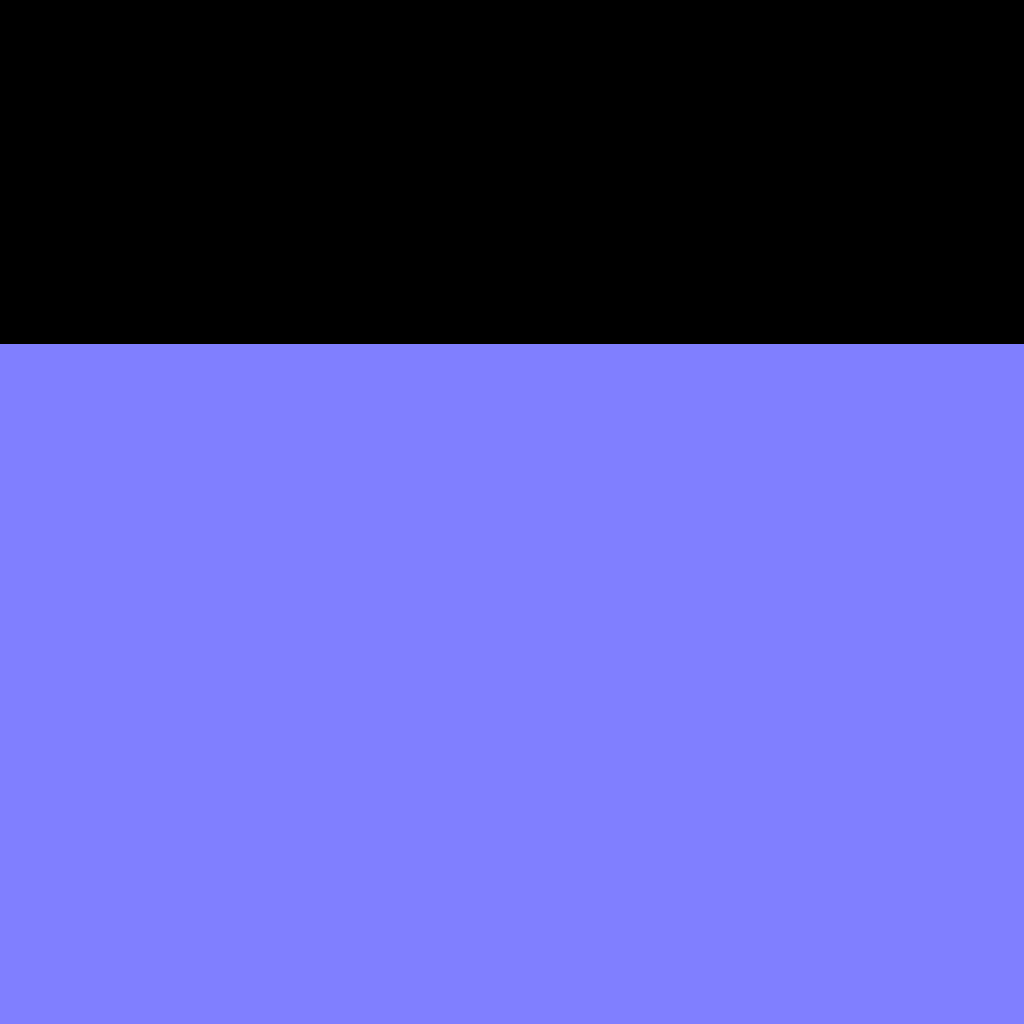
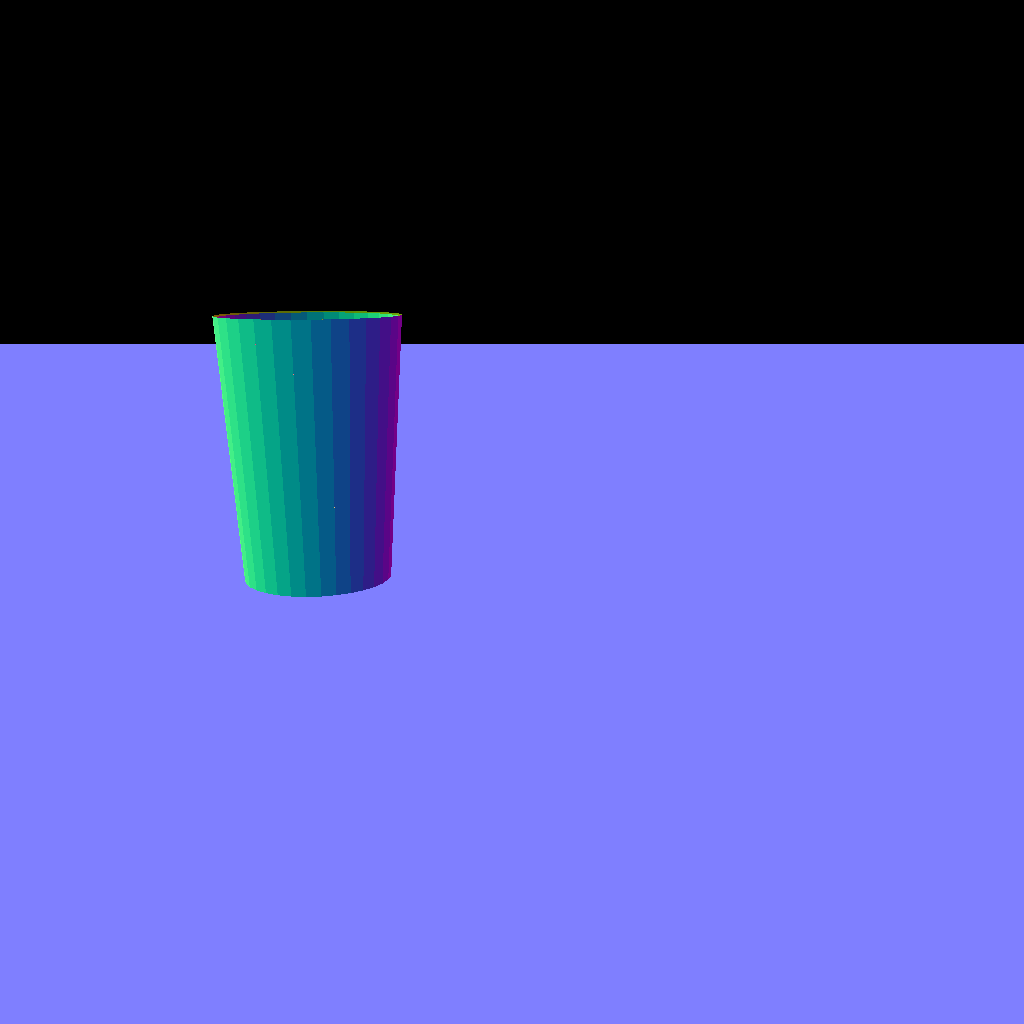
Some part of it works

Changed region(s): [[0.1875, 0.2812, 0.4062, 0.5938]]

diff --git a/bvh.cpp b/bvh.cpp
@@ -31,11 +31,16 @@ void BVH_Node::createBVH(Scene* scene){
 }
 
 void BVH_Node::reallyCreateBVH(){
-	if(this->surfaces_inside.size() == 0 || this->surfaces_inside.size() == 1){
+	if(this->surfaces_inside.size() == 0){ // Was the problem here?
 		this->is_leaf_node = 1;
 		return;
 	}
-
+	if(this->surfaces_inside.size() == 1){ // Was the problem here? Yes there was!
+		this->node_bounding_box.min = surfaces_inside[0]->bounding_box.min;
+		this->node_bounding_box.max = surfaces_inside[0]->bounding_box.max;
+		this->is_leaf_node = 1;
+		return;
+	}
 	if(this->surfaces_inside.size() >= 2){
 		this->node_bounding_box.min = surfaces_inside[0]->bounding_box.min;
 		this->node_bounding_box.max = surfaces_inside[0]->bounding_box.max;
@@ -140,29 +145,92 @@ void BVH_Node::reallyCreateBVH(){
 	std::cout << "Exiting reallyCreateBVH" << std::endl;
 }
 
-Interaction BVH_Node::rayIntersect(Ray ray){
-	BVH_Node* node = this;
-	Interaction bvhi_final;
-	Interaction bvhi;
-	bvhi_final.didIntersect = 0;
-	if (this->node_bounding_box.rayIntersect(ray).didIntersect == 0){
-		bvhi_final.didIntersect = 0;
-		return bvhi_final;
-	}
-    if (this->is_leaf_node == 1)
-    {
-        return this->surfaces_inside[0]->rayIntersect(ray);
+void BVH_Node::printBVH_Information(int level){
+	static int index_assignment = 1;
+    if (this->surfaces_inside.size() == 0){
+        std::cout << "This is a leaf node 0" << std::endl;
+        return;
     }
-    else
-    {
-        bvhi = this->left_node->rayIntersect(ray);
-		if(bvhi.didIntersect == 1) bvhi_final = bvhi;
-        bvhi = this->right_node->rayIntersect(ray);
-		if(bvhi.didIntersect == 1) bvhi_final = bvhi;
+	if (this->surfaces_inside.size() == 1){
+		this->index = index_assignment++;
+        std::cout << "This is a leaf node 1, has index: " << this->index << "." << std::endl;
+		std::cout << "Bounding box limits:" << std::endl;
+		std::cout << this->node_bounding_box.min.x << " " << this->node_bounding_box.min.y << " " << this->node_bounding_box.min.z << std::endl;
+	std::cout << this->node_bounding_box.max.x << " " << this->node_bounding_box.max.y << " " << this->node_bounding_box.max.z << std::endl;
+		std::cout << "Bounding box limits end:" << std::endl;
+        return;
+    }
+    else{
+        std::cout << "Printing information of left to level: " << level << ", has surfaces: " << this->left_node->surfaces_inside.size() << std::endl;
+		if(this->left_node) this->left_node->printBVH_Information(level + 1);
+
+        std::cout << "Printing information of right to level: " << level << ", has surfaces: " << this->right_node->surfaces_inside.size() << std::endl;
+		if(this->right_node) this->right_node->printBVH_Information(level + 1);
+    }
+    return;
+}
+
+Interaction BVH_Node::rayIntersect(Ray ray){
+    BVH_Node* node = this;
+    Interaction bvhi_final;
+    Interaction bvhi;
+    bvhi_final.didIntersect = 0;
+
+    if (this->node_bounding_box.rayIntersect(ray).didIntersect == 0) {
+        // No intersection with the bounding box, return the default value
+        std::cout << "No bounding box intersection." << std::endl;
+
+		std::cout << "Bounding box limits:" << std::endl;
+		std::cout << this->node_bounding_box.min.x << " " << this->node_bounding_box.min.y << " " << this->node_bounding_box.min.z << std::endl;
+	std::cout << this->node_bounding_box.max.x << " " << this->node_bounding_box.max.y << " " << this->node_bounding_box.max.z << std::endl;
+		std::cout << "Bounding box limits end:" << std::endl;
+
+		std::cout << "Ray Information" << std::endl;
+		std::cout << "Direction " << ray.d.x << ", " << ray.d.y << ", " << ray.d.z << std::endl;
+		std::cout << "Direction " << ray.o.x << ", " << ray.o.y << ", " << ray.o.z << std::endl;
+
+        return bvhi_final;
     }
 
-	return bvhi_final;
+    if (this->is_leaf_node == 1) {
+        // If it's a leaf node, directly compute the intersection with the surface
+        Interaction si = this->surfaces_inside[0]->rayIntersect(ray);
+        std::cout << "Leaf node intersection. Surface index: " << this->index << ", t: " << si.t << std::endl;
+        return si;
+    }
+    else {
+        // Recursive intersection with both left and right nodes
+        Interaction left_intersection = this->left_node->rayIntersect(ray);
+        Interaction right_intersection = this->right_node->rayIntersect(ray);
+
+        // Check which intersection is closer
+        if (left_intersection.didIntersect && right_intersection.didIntersect) {
+            float left_distance = left_intersection.t;
+            float right_distance = right_intersection.t;
+
+            // Choose the closer intersection
+            if (left_distance < right_distance) {
+                bvhi_final = left_intersection;
+                std::cout << "Left ---" << std::endl;
+            } else {
+                bvhi_final = right_intersection;
+                std::cout << "Right ---" << std::endl;
+            }
+        } else if (left_intersection.didIntersect) {
+            bvhi_final = left_intersection;
+            std::cout << "Left ---" << std::endl;
+        } else if (right_intersection.didIntersect) {
+            bvhi_final = right_intersection;
+            std::cout << "Right ---" << std::endl;
+        }
+    }
+
+    std::cout << "Final intersection result: " << bvhi_final.didIntersect << ", t: " << bvhi_final.t << std::endl;
+
+    return bvhi_final;
 }
+
+
 
 // Interaction BVH_Node::rayIntersect(Ray ray){
 // 	// Phele dekhna hai ki iske bounding box par intersect hui ki nahi.

diff --git a/render.cpp b/render.cpp
@@ -10,11 +10,21 @@ Integrator::Integrator(Scene &scene)
 long long Integrator::render()
 {
     auto startTime = std::chrono::high_resolution_clock::now();
+    int x = 960;
+    int y = 540;
     for (int x = 0; x < this->scene.imageResolution.x; x++) {
         for (int y = 0; y < this->scene.imageResolution.y; y++) {
             Ray cameraRay = this->scene.camera.generateRay(x, y);
             Interaction si = this->scene.rayIntersect(cameraRay);
-
+            if(x == 960 && y == 540){
+                std::cout << "This is the center point" << std::endl;
+                if(si.didIntersect){
+                    std::cout << "RAY INTERSECTED" << std::endl;
+                }
+                else if(!si.didIntersect){
+                    std::cout << "RAY DID NOT INTERSECT" << std::endl;
+                }
+            }
             if (si.didIntersect)
                 this->outputImage.writePixelColor(0.5f * (si.n + Vector3f(1.f, 1.f, 1.f)), x, y);
             else
@@ -29,8 +39,11 @@ long long Integrator::render()
 // I am not in favour of global variables
 int option = 0;
 
+int print_once = 0;
+
 int main(int argc, char **argv)
 {
+    print_once = 0;
     if (argc != 4) {
         std::cerr << "Usage: ./render <scene_config> <out_path> <option>";
         return 1;
@@ -60,6 +73,11 @@ int main(int argc, char **argv)
     if(option == 2){
         bvh_root->createBVH(&scene);
         scene.bvh_root = bvh_root;
+
+        std::cout << "Bounding box limits:" << std::endl;
+		std::cout << bvh_root->node_bounding_box.min.x << " " << bvh_root->node_bounding_box.min.y << " " << bvh_root->node_bounding_box.min.z << std::endl;
+	std::cout << bvh_root->node_bounding_box.max.x << " " << bvh_root->node_bounding_box.max.y << " " << bvh_root->node_bounding_box.max.z << std::endl;
+		std::cout << "Bounding box limits end:" << std::endl;
     }
     // std::cout << scene.surfaces.size() << std::endl;
 

diff --git a/scene.cpp b/scene.cpp
@@ -98,6 +98,7 @@ void Scene::parse(std::string sceneDirectory, nlohmann::json sceneConfig)
     }
 }
 
+
 Interaction Scene::rayIntersect(Ray& ray)
 {
     Interaction siFinal;
@@ -116,6 +117,7 @@ Interaction Scene::rayIntersect(Ray& ray)
 
     if(option == 2){
         // search in bvh recursively
+        if(print_once++ == 0) this->bvh_root->printBVH_Information(0);
         Interaction si = this->bvh_root->rayIntersect(ray);
         if (si.t <= ray.t) {    
             siFinal = si;

diff --git a/headers/bvh.h b/headers/bvh.h
@@ -17,4 +17,8 @@ struct BVH_Node {
 	void reallyCreateBVH();
 
 	Interaction rayIntersect(Ray ray);
+
+	void printBVH_Information(int level);
+
+	int index; // experimental, for leaf nodes only
 };

diff --git a/headers/common.h b/headers/common.h
@@ -15,6 +15,8 @@
 
 extern int option;
 
+extern int print_once;
+
 struct Ray {
     Vector3d o, d;
     double t = 1e30;

diff --git a/errorlog.md b/errorlog.md
@@ -5,3 +5,5 @@ instead of
 ```float tz2 = (this->max.z - ray.o.z) / ray.d.z;```
 
 This caused a partial image to be form. Not sure why the glass was half made. Try that with option 1 and the errorneous code and we will observe the same.
+
+- Changed the rayIntersect function to that similar on the blog. That seems to partially work. There are some objects that did not render though. Looking at them.
